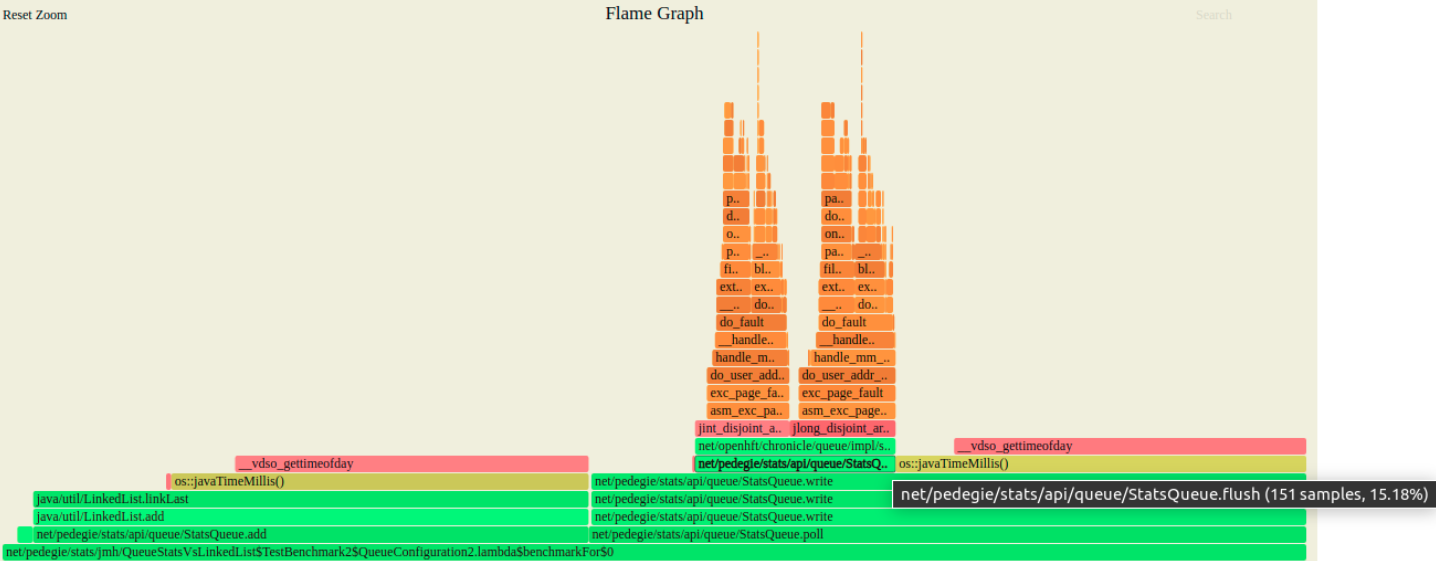
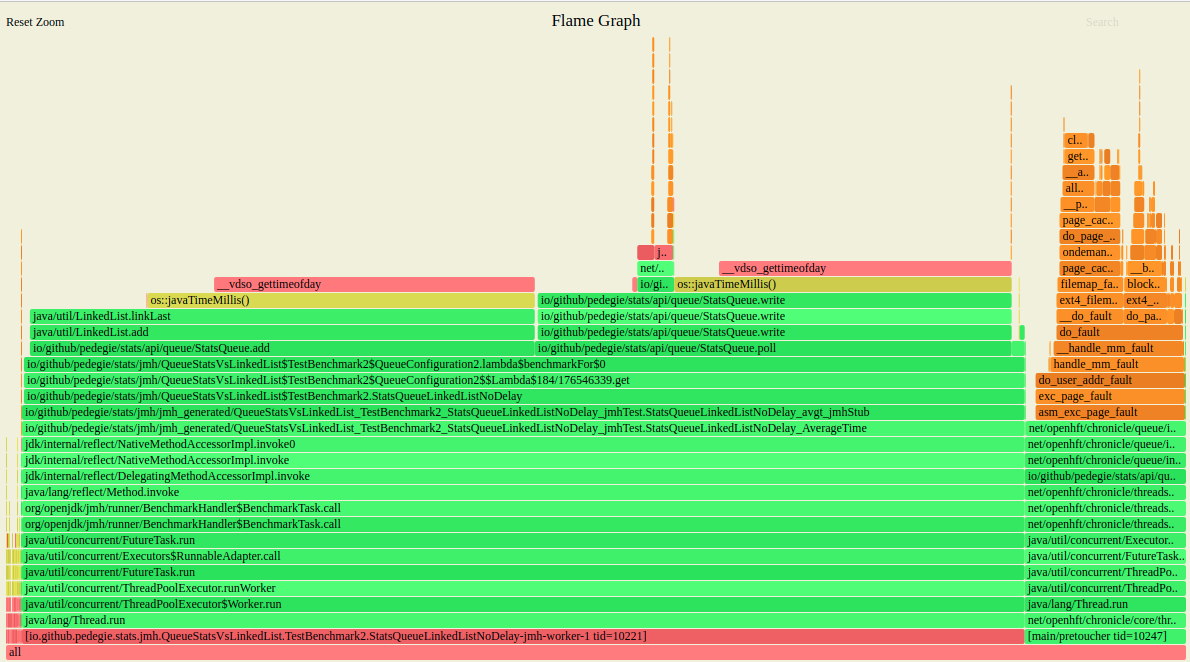
90-pretoucher

diff --git a/api/src/main/java/io/github/pedegie/stats/api/queue/StatsQueue.java b/api/src/main/java/io/github/pedegie/stats/api/queue/StatsQueue.java
@@ -11,6 +11,7 @@ import net.openhft.chronicle.core.Jvm;
 import net.openhft.chronicle.queue.ExcerptAppender;
 import net.openhft.chronicle.queue.impl.single.SingleChronicleQueue;
 import net.openhft.chronicle.queue.impl.single.SingleChronicleQueueBuilder;
+import net.openhft.chronicle.queue.internal.InternalPretouchHandler;
 import net.openhft.chronicle.wire.DocumentContext;
 import org.jetbrains.annotations.NotNull;
 
@@ -29,6 +30,7 @@ public class StatsQueue<T> implements Queue<T>, BatchFlushable, Closeable
 {
     private static final ConcurrentHashMap<String, Boolean> queues = new ConcurrentHashMap<>();
     private static final Flusher flusher = new Flusher();
+    private static final PretoucherThread pretoucherThread = new PretoucherThread();
 
     Queue<T> queue;
     WriteFilter writeFilter;
@@ -59,10 +61,14 @@ public class StatsQueue<T> implements Queue<T>, BatchFlushable, Closeable
     @SuppressWarnings("rawtypes")
     Bytes batchBytes;
 
+    static
+    {
+        System.setProperty("disable.thread.safety", "true");
+    }
+
     @SneakyThrows
     protected StatsQueue(Queue<T> queue, QueueConfiguration queueConfiguration)
     {
-        System.setProperty("disable.thread.safety", "true");
         if (queues.putIfAbsent(queueConfiguration.getPath().toString(), Boolean.TRUE) != null)
         {
             throw new IllegalArgumentException("Queue which appends to " + queueConfiguration.getPath() + " already exists");
@@ -92,6 +98,11 @@ public class StatsQueue<T> implements Queue<T>, BatchFlushable, Closeable
             this.batchBytes = Bytes.allocateDirect((long) queueConfiguration.getBatching().getBatchSize() * PROBE_SIZE);
             flusher.start();
             flusher.addFlushable(this);
+            if(queueConfiguration.isPreTouch())
+            {
+                pretoucherThread.start();
+                pretoucherThread.startPretouching(new PretouchHandler(new InternalPretouchHandler(chronicleQueue)));
+            }
         } catch (Exception e)
         {
             queues.remove(queueConfiguration.getPath().toString());

diff --git a/api/src/main/java/io/github/pedegie/stats/api/queue/PretouchHandler.java b/api/src/main/java/io/github/pedegie/stats/api/queue/PretouchHandler.java
@@ -1,0 +1,48 @@
+package io.github.pedegie.stats.api.queue;
+
+import lombok.AccessLevel;
+import lombok.RequiredArgsConstructor;
+import lombok.experimental.FieldDefaults;
+import net.openhft.chronicle.core.threads.EventHandler;
+import net.openhft.chronicle.core.threads.EventLoop;
+import net.openhft.chronicle.core.threads.HandlerPriority;
+import net.openhft.chronicle.core.threads.InvalidEventHandlerException;
+import net.openhft.chronicle.queue.internal.InternalPretouchHandler;
+import org.jetbrains.annotations.NotNull;
+
+@FieldDefaults(makeFinal = true, level = AccessLevel.PRIVATE)
+@RequiredArgsConstructor
+class PretouchHandler implements EventHandler
+{
+    InternalPretouchHandler internalPretouchHandler;
+
+    @Override
+    public boolean action() throws InvalidEventHandlerException
+    {
+        return internalPretouchHandler.action();
+    }
+
+    @Override
+    public void eventLoop(EventLoop eventLoop)
+    {
+        internalPretouchHandler.eventLoop(eventLoop);
+    }
+
+    @Override
+    public void loopStarted()
+    {
+        internalPretouchHandler.loopStarted();
+    }
+
+    @Override
+    public void loopFinished()
+    {
+        internalPretouchHandler.loopFinished();
+    }
+
+    @Override
+    public @NotNull HandlerPriority priority()
+    {
+        return HandlerPriority.MEDIUM;
+    }
+}

diff --git a/api/src/main/java/io/github/pedegie/stats/api/queue/PretoucherThread.java b/api/src/main/java/io/github/pedegie/stats/api/queue/PretoucherThread.java
@@ -1,0 +1,46 @@
+package io.github.pedegie.stats.api.queue;
+
+import lombok.AccessLevel;
+import lombok.RequiredArgsConstructor;
+import lombok.experimental.FieldDefaults;
+import net.openhft.chronicle.core.threads.HandlerPriority;
+import net.openhft.chronicle.threads.MediumEventLoop;
+import net.openhft.chronicle.threads.Pauser;
+import net.openhft.chronicle.threads.VanillaEventLoop;
+
+import java.util.EnumSet;
+
+@FieldDefaults(makeFinal = true, level = AccessLevel.PRIVATE)
+@RequiredArgsConstructor
+class PretoucherThread
+{
+    MediumEventLoop eventLoop;
+
+    static
+    {
+        System.setProperty("disable.thread.safety", "true");
+        System.setProperty("SingleChronicleQueueExcerpts.earlyAcquireNextCycle", "true");
+        System.setProperty("SingleChronicleQueueExcerpts.pretoucherPrerollTimeMs", "100");
+    }
+
+    public PretoucherThread()
+    {
+        this.eventLoop = new VanillaEventLoop(null,
+                "pretoucher",
+                Pauser.balanced(),
+                2000,
+                true,
+                "none",
+                EnumSet.of(HandlerPriority.MEDIUM));
+    }
+
+    public void startPretouching(PretouchHandler pretouchHandler)
+    {
+        eventLoop.addHandler(pretouchHandler);
+    }
+
+    public void start()
+    {
+        eventLoop.start();
+    }
+}

diff --git a/api/src/main/java/io/github/pedegie/stats/api/tailer/ProbeTailerScheduler.java b/api/src/main/java/io/github/pedegie/stats/api/tailer/ProbeTailerScheduler.java
@@ -24,9 +24,13 @@ public class ProbeTailerScheduler
     MediumEventLoop[] threadLoops;
     AtomicInteger roundRobinIndex = new AtomicInteger();
 
-    private ProbeTailerScheduler(int threads, int probeReadOnSingleAction)
+    static
     {
         System.setProperty("disable.thread.safety", "true");
+    }
+
+    private ProbeTailerScheduler(int threads, int probeReadOnSingleAction)
+    {
         this.probeReadOnSingleAction = probeReadOnSingleAction;
         this.threadLoops = new MediumEventLoop[threads];
         for (int i = 0; i < threads; i++)

diff --git a/api/src/main/java/io/github/pedegie/stats/api/tailer/ProbeTailerImpl.java b/api/src/main/java/io/github/pedegie/stats/api/tailer/ProbeTailerImpl.java
@@ -30,10 +30,13 @@ class ProbeTailerImpl implements ProbeTailer
     @NonFinal
     volatile long perBatchProbes;
 
-    public ProbeTailerImpl(TailerConfiguration tailerConfiguration)
+    static
     {
         System.setProperty("disable.thread.safety", "true");
+    }
 
+    public ProbeTailerImpl(TailerConfiguration tailerConfiguration)
+    {
         this.chronicleQueue = SingleChronicleQueueBuilder
                 .binary(tailerConfiguration.getPath())
                 .rollCycle(tailerConfiguration.getRollCycle())

diff --git a/jmh/src/main/java/io/github/pedegie/stats/jmh/MultipleQueues.java b/jmh/src/main/java/io/github/pedegie/stats/jmh/MultipleQueues.java
@@ -72,7 +72,7 @@ public class MultipleQueues
         }
 
         @Benchmark
-        public void ConcurrentLinkedQueuesBenchmark(QueueConfiguration3 queueConfiguration) throws InterruptedException
+        public void ConcurrentLinkedQueuesBenchmark(QueueConfiguration3 queueConfiguration)
         {
             runBenchmark(queueConfiguration.concurrentQueueBenchmarks);
         }

diff --git a/README.md b/README.md
@@ -555,13 +555,12 @@ tool.
 ![async-profiler flame-graph](images/jmh.png "Flame-graph")
 - all batch writes happens during `poll()` - it's because of every n-th write equal to `batchSize` is always
   invoked during `poll()` but it doesn't matter.
-- 63% of overhead is because of `System.currentTimeMillis()`. Yes we are talking about that small overheads but
+- 72% of overhead is because of `System.currentTimeMillis()`. Yes we are talking about that small overheads but
   comparing to just simple `LinkedList.linkNode()` It's still relative big. We can't do much with this.
-- there is still 15% improvement space if we can pre-touch memory pages asynchronously
-- rest overheard is because of **Stats** `write` logic
+- most page fault are being done in background thread asynchronously
+- rest overheard is because of **Stats** logic
 
-It's just V1 version, in future releases I will implement some read-ahead mechanism and do my best to get the lowest
-overhead as possible. You can also consider increasing `WriteThreshold.minSizeDifference` to minimize write overhead.
+Consider increasing `WriteThreshold.minSizeDifference` to minimize write overhead.
 
 ### `QueueStats` vs `ConcurrentLinkedQueue` with delay between adds
 Here 1 thread means there is 1 producer and 1 consumer thread, 2 threads - 2 producer and 2 consumer
